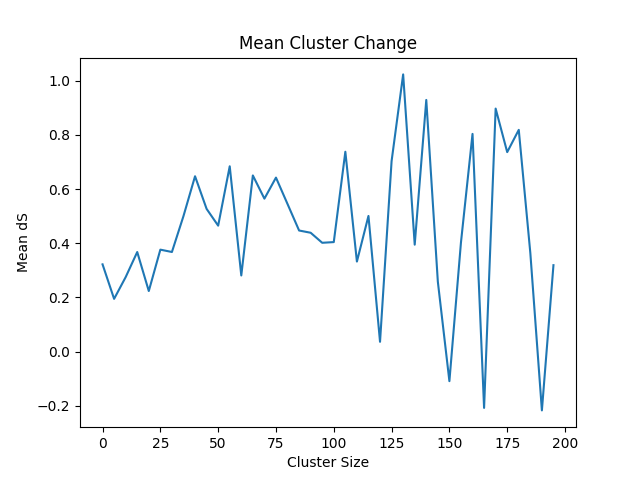
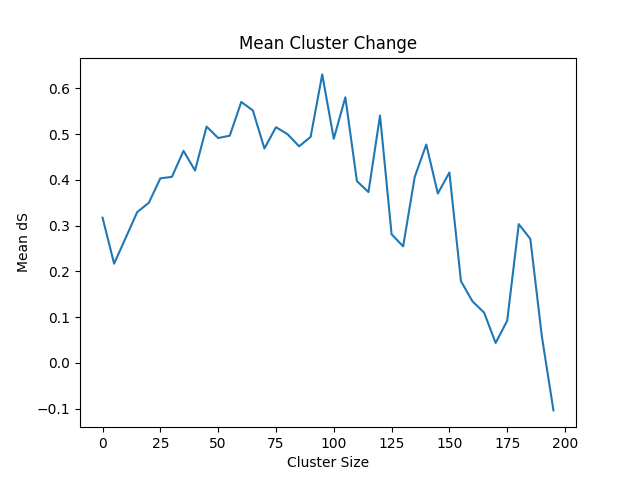
Stray commits

diff --git a/temp_actions/vishu_21_feb/temp.py b/temp_actions/vishu_21_feb/temp.py
@@ -1,34 +1,23 @@
 from matplotlib import pyplot as plt
-from numpy import zeros
+from numpy import loadtxt, transpose, zeros
 from os import path
 
 
 if __name__ == '__main__':
-    base_path = "C:\\Code\\Github\\vegetation-dynamics\\results\\tricritical\\q0\\alternate"
-    p_value = 0.74
+    base_path = "C:\\Code\\Github\\vegetation-dynamics\\results\\tricritical\\q0\\longer"
+    p_value = 0.7
     file_prefix = str(p_value).replace('.', 'p')
     folder_path = path.join(base_path, file_prefix)
     output_path = path.dirname(__file__)
 
-    cluster_ds_data = open(path.join(folder_path, file_prefix + '_cluster_ds.txt'), 'r').readlines()
-    cluster_analyze_limit = 200
-    mean_ds_values, mean_ds_sq_values, num_changes = zeros(cluster_analyze_limit), zeros(cluster_analyze_limit), zeros(cluster_analyze_limit)
+    cluster_ds_data = transpose(loadtxt(open(path.join(folder_path, file_prefix + '_cluster_ds.txt'), 'r')))
+    cluster_analyze_limit = min(200, len(cluster_ds_data[0]))
+    cluster_ds_data = cluster_ds_data[:, :cluster_analyze_limit]
 
-    for i, line in enumerate(cluster_ds_data):
-        cluster_size, ds_values = line.split(":")
-
-        if int(cluster_size) == cluster_analyze_limit or ds_values == " \n":
-            break
-
-        ds_values = [int(ds) for ds in ds_values.strip().split(" ")]
-        ds_sq_values = [ds ** 2 for ds in ds_values]
-        mean_ds_values[i] = sum(ds_values) / len(ds_values)
-        mean_ds_sq_values[i] = sum(ds_sq_values) / len(ds_sq_values)
-        num_changes[i] = len(ds_values)
-
+    mean_ds_values = cluster_ds_data[1]
     bin_size = 5
     binned_ds = zeros(len(mean_ds_values) // bin_size)
-    bins = zeros(len(binned_ds) + 1)
+    bins = zeros(len(mean_ds_values) // bin_size)
 
     for i in range(len(binned_ds)):
         binned_ds[i] = sum(mean_ds_values[i * bin_size:(i + 1) * bin_size]) / bin_size
@@ -38,30 +27,6 @@ if __name__ == '__main__':
     plt.title("Mean Cluster Change")
     plt.xlabel("Cluster Size")
     plt.ylabel("Mean dS")
-    plt.plot(bins[:-1], binned_ds)
+    plt.plot(bins, binned_ds)
     plt.savefig(path.join(output_path, file_prefix + '_cluster_mean_ds.png'))
     plt.show()
-
-    # plt.figure()
-    # plt.title("Mean Cluster Change")
-    # plt.xlabel("Cluster Size")
-    # plt.ylabel("Mean dS")
-    # plt.plot(range(cluster_analyze_limit), mean_ds_values)
-    # plt.savefig(path.join(output_path, file_prefix + '_cluster_mean_ds.png'))
-    # plt.show()
-
-    # plt.figure()
-    # plt.title("Mean Cluster Change Squared")
-    # plt.xlabel("Cluster Size")
-    # plt.ylabel("Mean dS^2")
-    # plt.plot(range(cluster_analyze_limit), mean_ds_sq_values)
-    # plt.savefig(path.join(output_path, file_prefix + '_cluster_mean_ds_sq.png'))
-    # plt.show()
-
-    # plt.figure()
-    # plt.title("Number of Cluster Changes")
-    # plt.xlabel("Cluster Size")
-    # plt.ylabel("Number of Changes")
-    # plt.plot(range(cluster_analyze_limit), num_changes)
-    # plt.savefig(path.join(output_path, file_prefix + '_cluster_num_changes.png'))
-    # plt.show()

diff --git a/temp_actions/thesis_plots/power_law_comparison.py b/temp_actions/thesis_plots/power_law_comparison.py
@@ -1,0 +1,21 @@
+from matplotlib import pyplot as plt
+from numpy import arange, exp
+
+
+if __name__ == '__main__':
+    x = arange(0.01, 10, 0.01)
+    power_law = x ** (-2)
+    exponential = exp(-x)
+    gaussian = exp(-x ** 2)
+
+    plt.title("Comparison of Distributions")
+    plt.xlabel("x")
+    plt.ylabel("f(x)")
+    plt.plot(x, power_law, label="Power Law")
+    plt.plot(x, exponential, label="Exponential")
+    plt.plot(x, gaussian, label="Gaussian")
+    plt.xlim(0, 5)
+    plt.ylim(0, 2)
+    plt.legend()
+    plt.savefig("power_law_comparison.png")
+    plt.show()

diff --git a/peer_data.py b/peer_data.py
@@ -9,7 +9,7 @@ def data_summary(model_name, simulation_index):
     info_string = data["info"]
     density_data = data["density_data"]
     cluster_data = data["cluster_data"]
-    series_data = data["series_data"]
+    series_data = array(data["series_data"])
 
     print(f"Info string: {info_string}")
     print(f"Density data length: {len(density_data)}")

diff --git a/terminal.py b/terminal.py
@@ -24,7 +24,8 @@ from utils import load_automaton_data
 
 if __name__ == '__main__':
     num_simulations = cpu_count() - 1
-    f_values = [0.48, 0.51, 0.54, 0.57, 0.6]
+    # f_values = [0.48, 0.51, 0.54, 0.57, 0.6]
+    f_values = [0.48]
 
     for f_value in f_values:
         purge_data()
